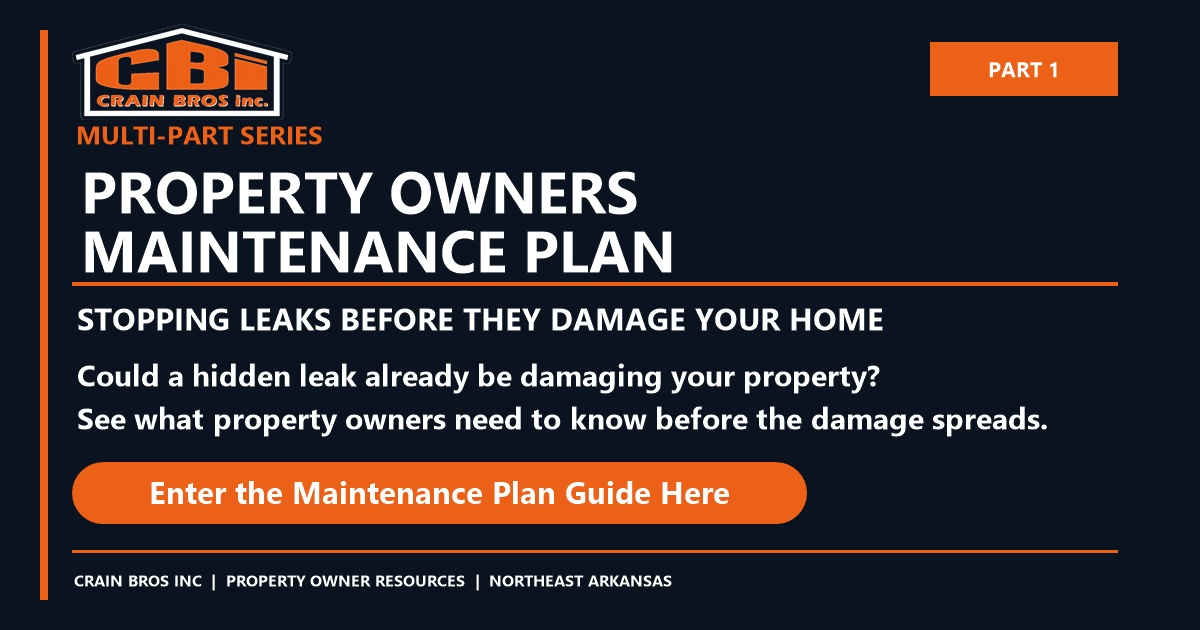
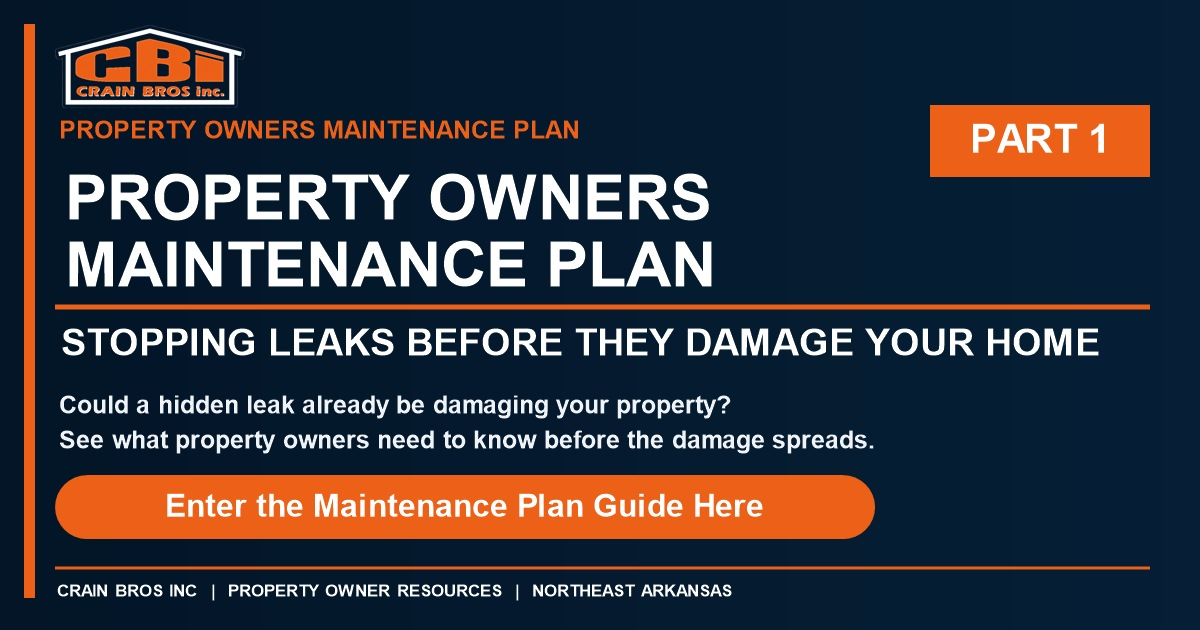
Improve Resource Center social cards and checklist
Replace the four Resource Center social cards with the approved larger-text designs.
Correct the Property Maintenance Record section to display orange check marks.

Changed region(s): [[0.0, 0.0302, 0.9558, 0.9651], [0.7708, 0.0603, 0.9867, 0.3016]]

diff --git a/pages/property-maintenance-guides.html b/pages/property-maintenance-guides.html
@@ -147,7 +147,7 @@
 </div>
 </div></section>
 <section class="section"><div class="container">
-<h2>What to Keep in a Property Maintenance Record</h2>
+<h2>What to Keep in a Property Maintenance Record</h2><div class="resource-check-grid">
 <div class="resource-check-item">Installed product and system information</div>
 <div class="resource-check-item">Manufacturer instructions and warranty information</div>
 <div class="resource-check-item">Inspection and service dates</div>
